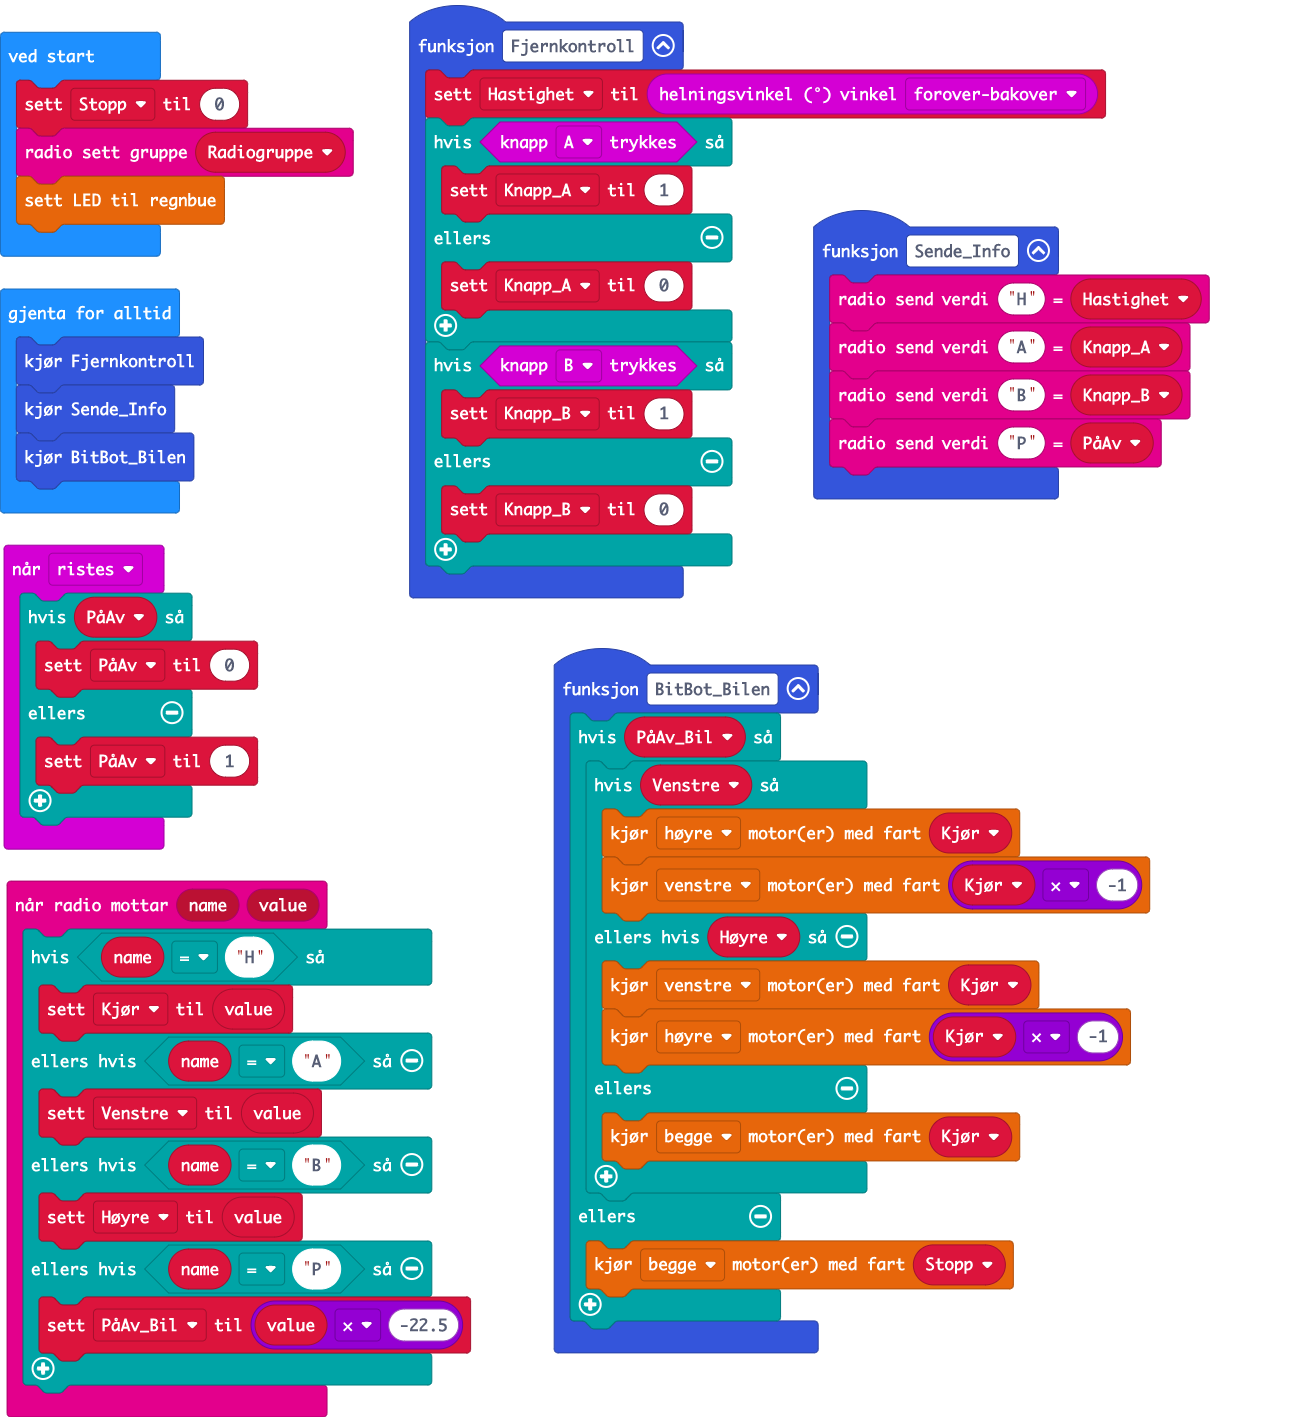
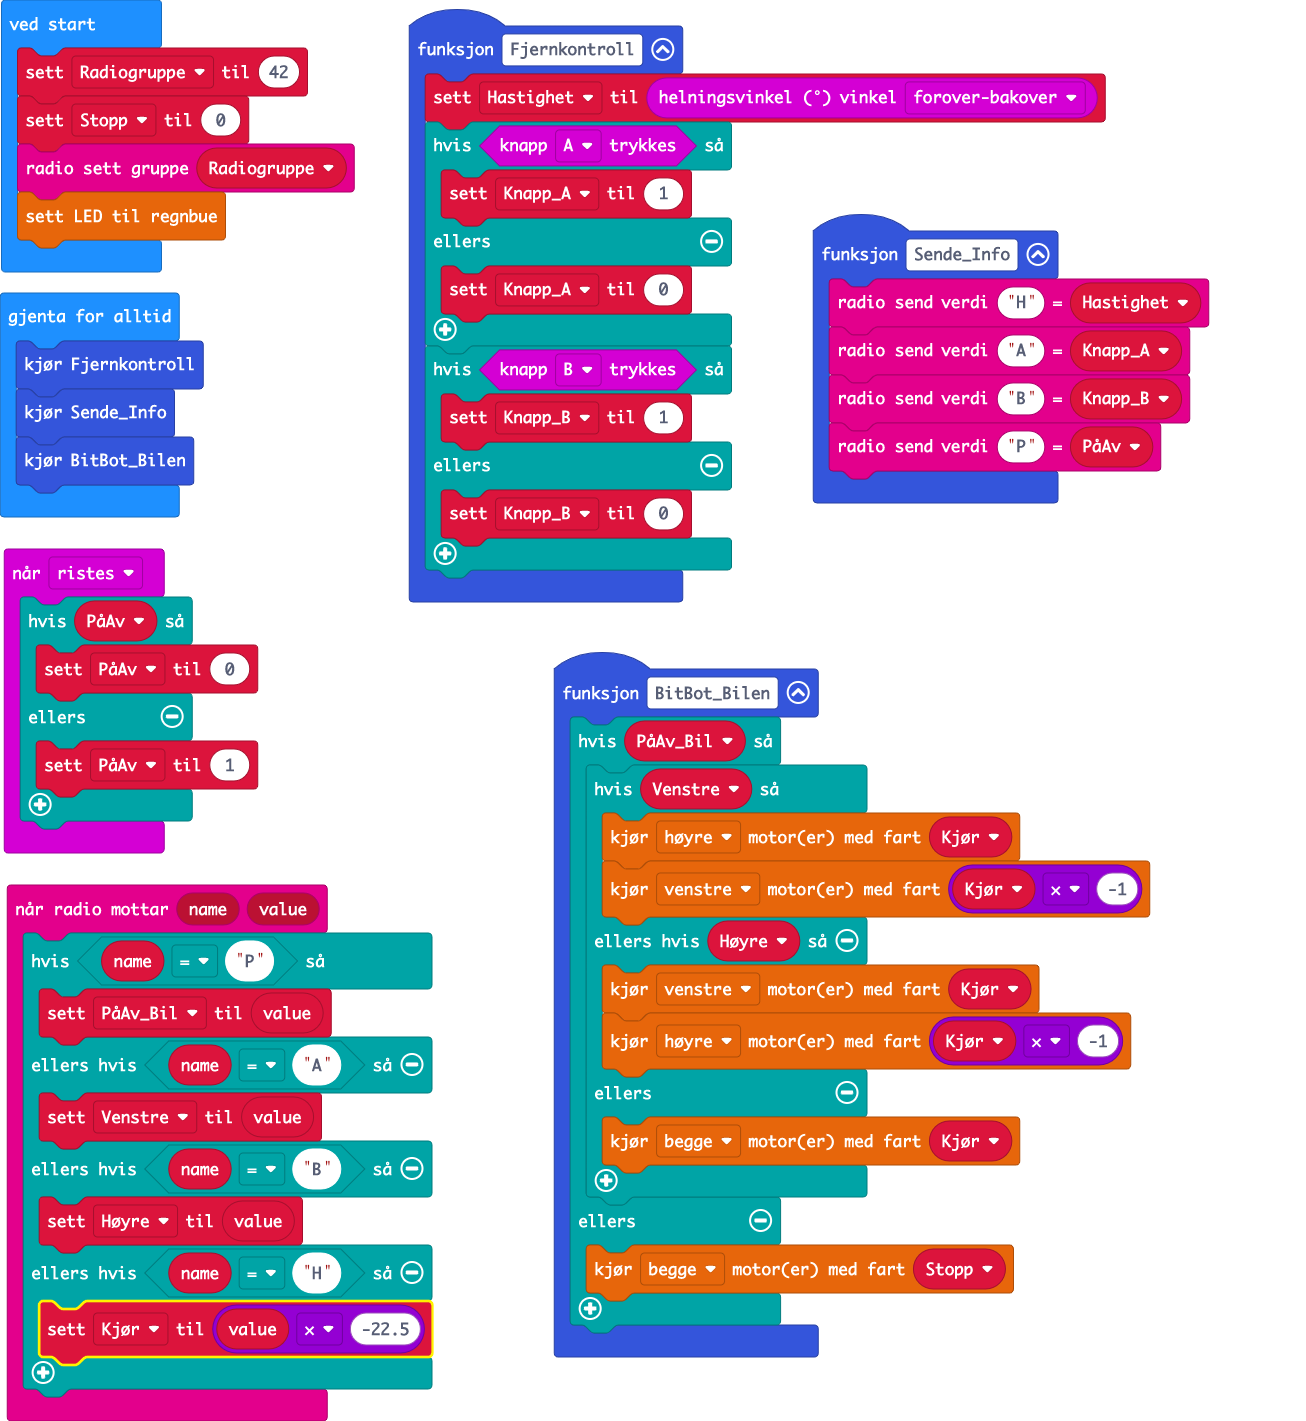
Oppdater main.blocks, main.ts

diff --git a/main.ts b/main.ts
@@ -40,14 +40,14 @@ input.onGesture(Gesture.Shake, function () {
     }
 })
 radio.onReceivedValue(function (name, value) {
-    if (name == "H") {
-        Kjør = value
+    if (name == "P") {
+        PåAv_Bil = value
     } else if (name == "A") {
         Venstre = value
     } else if (name == "B") {
         Høyre = value
-    } else if (name == "P") {
-        PåAv_Bil = value * -22.5
+    } else if (name == "H") {
+        Kjør = value * -22.5
     }
 })
 let Kjør = 0
@@ -58,8 +58,8 @@ let PåAv = 0
 let Knapp_B = 0
 let Knapp_A = 0
 let Hastighet = 0
-let Radiogruppe = 0
 let Stopp = 0
+let Radiogruppe = 42
 Stopp = 0
 radio.setGroup(Radiogruppe)
 bitbot.ledRainbow()
